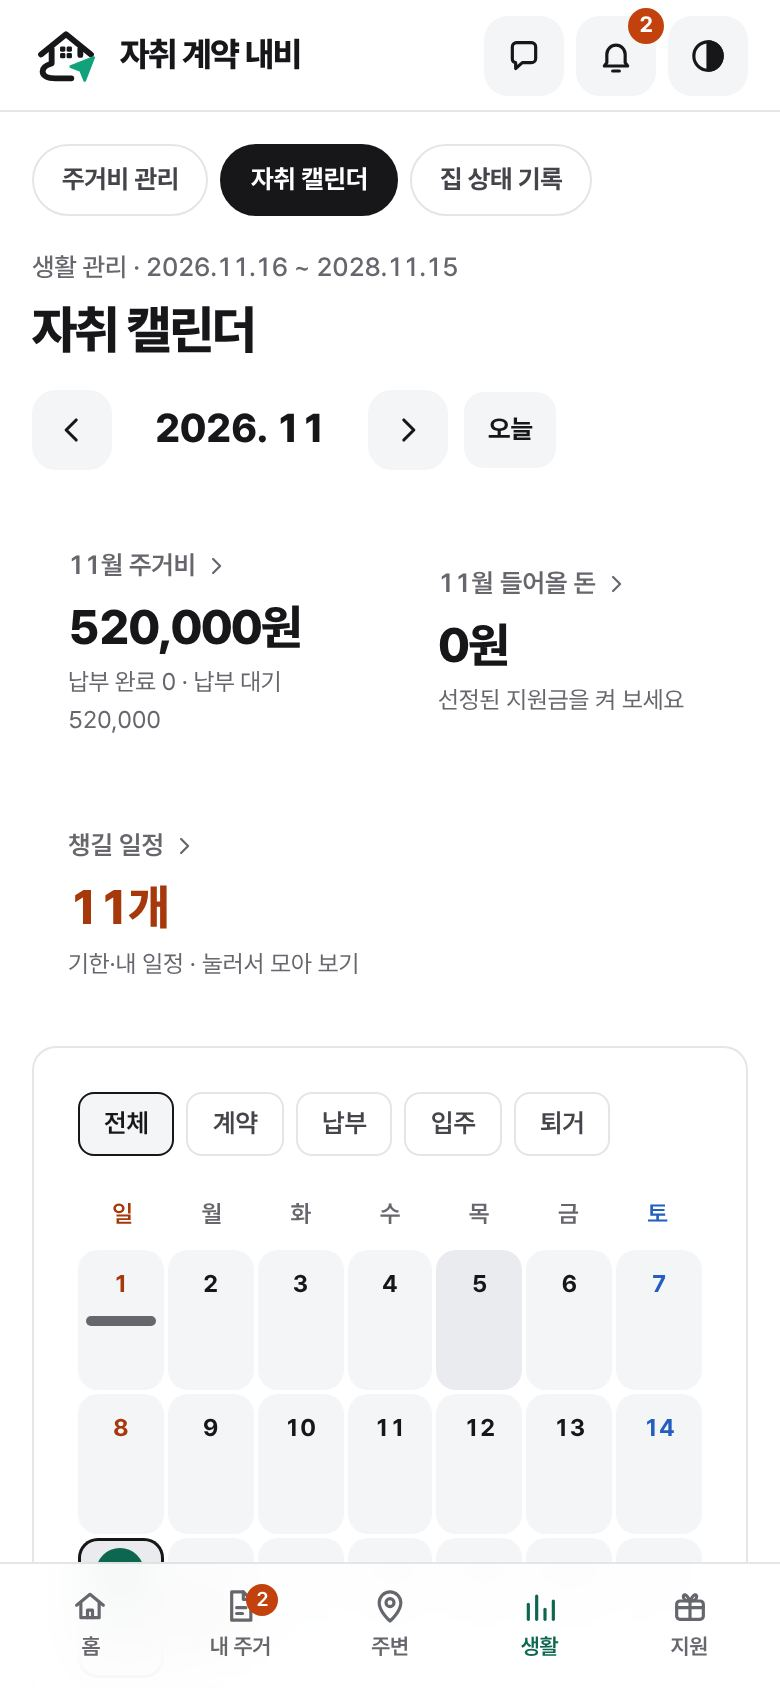
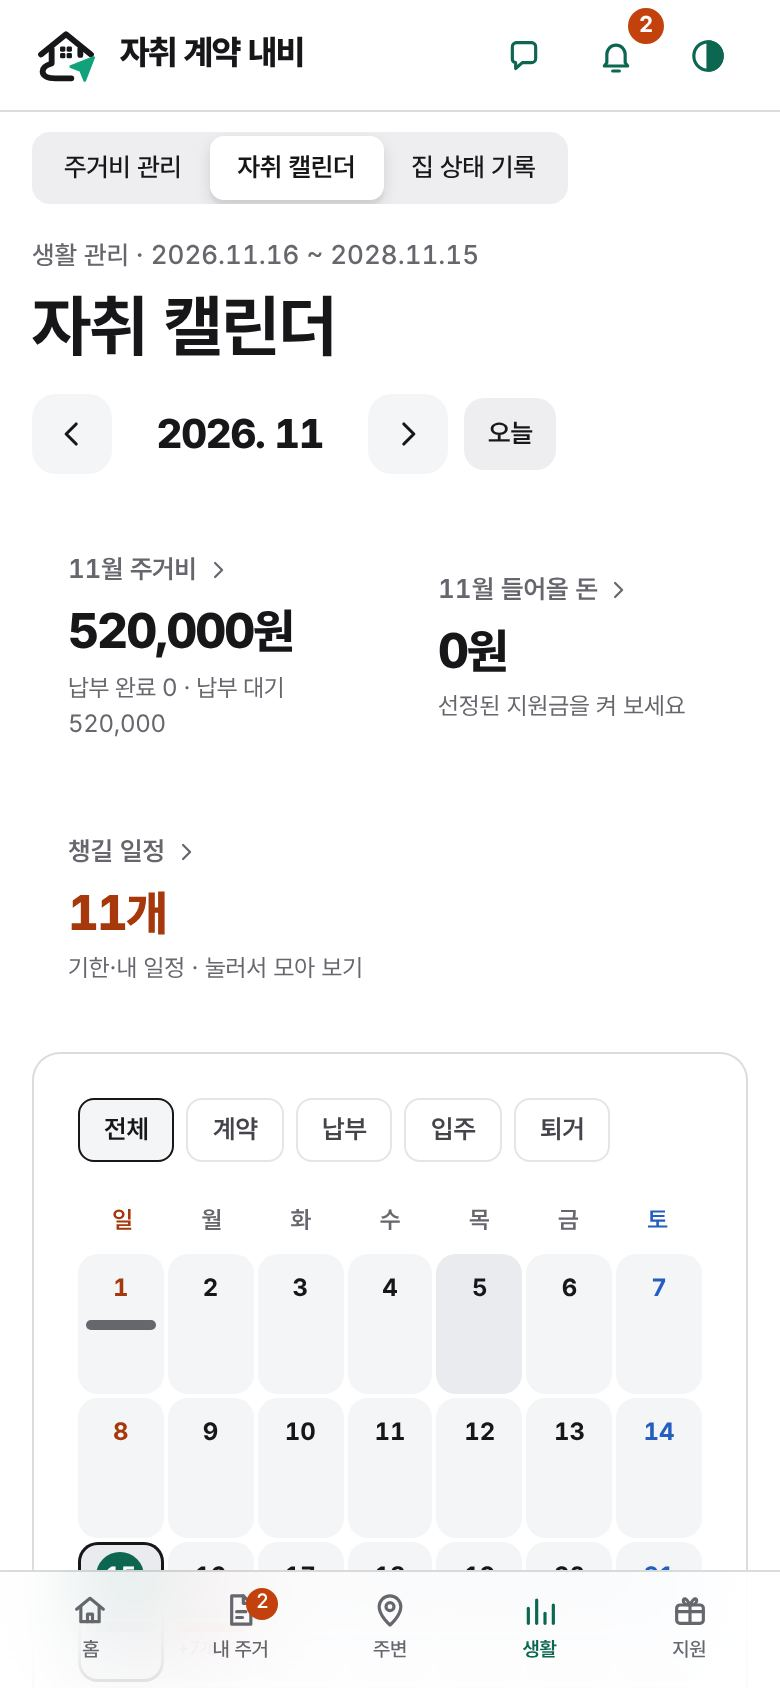
디자인: 앱 전체에 iOS 스타일 적용 (애플 HIG 원칙을 우리 CSS로)
- 글꼴: 애플 기기는 시스템 글꼴(SF)이 먼저, 그 밖은 Pretendard
- 휴대폰 상단바·탭바: 반투명 재질(흐림 + 얇은 경계), 탭 글자 10px, 상단 아이콘은 배경 없이
- 큰 제목 34px, 하위 탭 줄과 분류 버튼을 iOS 세그먼트 컨트롤로
- 버튼·입력칸: 회색 채움, 누르면 흐려지는 반응, 터치 영역 44px 이상
- 애플 UI 키트 그림·SF Symbols·SF Pro 파일은 쓰지 않음 (라이선스)
- 소개 페이지의 앱 화면 캡처도 새 디자인으로 다시 찍음
- 접근성 자동 점검 위반 0건, 수홍님 모션 구역(mo:T-09~16)은 그대로

Claude-Session: https://claude.ai/code/session_01Uqv9B2Vk576jKchxvgvJKG

diff --git a/demo/app.html b/demo/app.html
@@ -964,6 +964,61 @@ details.fold[open] > summary { margin-bottom: 10px }
   .sp-acts .btn { flex: 1 1 auto }
 }
 
+/* ============================================================
+   iOS 스타일 층 (애플 Human Interface Guidelines 원칙을 우리 CSS로 — 애플 키트 그림·SF Symbols·SF Pro 파일은 쓰지 않음)
+   - 글꼴: 애플 기기는 시스템 글꼴(SF)이 먼저, 그 밖은 Pretendard
+   - 반투명 재질(머티리얼): 휴대폰 상단바·탭바, 흐림 + 0.5px 경계
+   - 큰 제목 34px, 세그먼트 컨트롤, 회색 채움 버튼·입력칸, 누르면 흐려지는 반응, 터치 영역 44px 이상
+   ============================================================ */
+:root {
+  --font: -apple-system, BlinkMacSystemFont, "Pretendard Variable", Pretendard, "Apple SD Gothic Neo", "Noto Sans KR", system-ui, sans-serif;
+  --ios-fill: rgba(118,118,128,.12); --ios-fill-2: rgba(118,118,128,.2);
+  --ios-sep: rgba(60,60,67,.18); --ios-mat: rgba(255,255,255,.76);
+  --ios-shadow: 0 3px 8px rgba(0,0,0,.12), 0 3px 1px rgba(0,0,0,.04);
+  --r-card: 14px; --r-in: 10px; --r-btn: 12px;
+}
+@media (prefers-color-scheme: dark) { :root:not([data-theme="light"]) { --ios-fill: rgba(118,118,128,.24); --ios-fill-2: rgba(118,118,128,.32); --ios-sep: rgba(84,84,88,.6); --ios-mat: rgba(30,30,32,.78); --ios-shadow: 0 3px 8px rgba(0,0,0,.4) } }
+:root[data-theme="dark"] { --ios-fill: rgba(118,118,128,.24); --ios-fill-2: rgba(118,118,128,.32); --ios-sep: rgba(84,84,88,.6); --ios-mat: rgba(30,30,32,.78); --ios-shadow: 0 3px 8px rgba(0,0,0,.4) }
+html { -webkit-tap-highlight-color: transparent }
+body { font-family: var(--font); letter-spacing: -0.01em }
+/* 세그먼트 컨트롤 */
+.seg { gap: 0; padding: 2px; border-radius: 9px; background: var(--ios-fill) }
+.seg button { min-height: 32px; border-radius: 7px; color: var(--ink); font-weight: 500; transition: background .2s ease, box-shadow .2s ease }
+.seg button[aria-pressed="true"] { background: var(--surface); color: var(--ink); font-weight: 600; box-shadow: var(--ios-shadow) }
+/* 버튼: 채움(검정) · 회색 채움 · 누르면 흐려짐 */
+.btn { border-radius: var(--r-btn); font-weight: 600; transition: opacity .15s ease, transform .15s ease }
+.btn:hover { filter: none; opacity: .88 }
+.btn:active { transform: none; opacity: .55 }
+.btn.ghost { background: var(--ios-fill); color: var(--ink) }
+.btn.line { box-shadow: inset 0 0 0 1px var(--ios-sep) }
+/* 입력칸: 회색 채움, 테두리 없음 */
+.inp { border: 0; border-radius: var(--r-in); background: var(--ios-fill); min-height: 44px }
+.inp:focus { background: var(--surface); box-shadow: 0 0 0 2px var(--brand-text) }
+/* 카드: 0.5px 느낌의 옅은 경계 */
+.card { border-color: var(--ios-sep); border-radius: var(--r-card) }
+a.card:active, button.card:active, .room-r:active, .nav:active { opacity: .6 }
+@media (max-width: 899px) {
+  /* 반투명 재질 상단바·탭바 */
+  .topbar, .tabbar { background: var(--ios-mat) !important; -webkit-backdrop-filter: saturate(180%) blur(20px); backdrop-filter: saturate(180%) blur(20px) }
+  .topbar { border-bottom: 0.5px solid var(--ios-sep); box-shadow: none }
+  .tabbar { border-top: 0.5px solid var(--ios-sep); box-shadow: none; padding-top: 4px }
+  .tab { min-height: 48px; font-size: 10px; font-weight: 500; gap: 3px; border-radius: 0; color: var(--ink-3) }
+  .tab:active { opacity: .55 }
+  .tab[aria-current="page"] { color: var(--brand-text); font-weight: 600 }
+  /* 큰 제목 (Large Title 34px) */
+  .page-head h1, .hero-banner h1 { font-size: 34px; font-weight: 700; letter-spacing: -0.02em; line-height: 1.15 }
+  .page-head .eyebrow { font-size: 13px; letter-spacing: 0 }
+  /* 하위 탭 줄 → iOS 세그먼트 컨트롤 */
+  .subnav { gap: 0; padding: 2px; border-radius: 9px; background: var(--ios-fill); overflow-x: auto; align-self: flex-start; width: max-content; max-width: 100% }
+  .subnav a { min-height: 32px; padding: 0 14px; border: 0; border-radius: 7px; background: transparent; color: var(--ink); font-size: 13px; font-weight: 500 }
+  .subnav a[aria-current="page"] { background: var(--surface); color: var(--ink); border-color: transparent; font-weight: 600; box-shadow: var(--ios-shadow) }
+  .topbar .icon-btn, #top-acts .icon-btn, #top-acts button { background: transparent; box-shadow: none; color: var(--brand-text) }
+  .topbar .icon-btn:active, #top-acts .icon-btn:active, #top-acts button:active { opacity: .45 }
+  .main { padding-top: 14px }
+  .btn { min-height: 48px }
+  .btn.sm { min-height: 36px }
+}
+
 /* ===== mo:T-09 내 화면 6개 모션 (계약·신고 전용) ===== */
 .mo { --mo-short: 250ms; --mo-base: 450ms; --mo-long: 600ms; --mo-step: 80ms; --mo-shift: 20px; --mo-ease: cubic-bezier(0.3, 0.7, 0.4, 1); --mo-ease-io: cubic-bezier(0.4, 0, 0.2, 1) }
 .mo .mo-fold { display: grid; grid-template-rows: 0fr }
